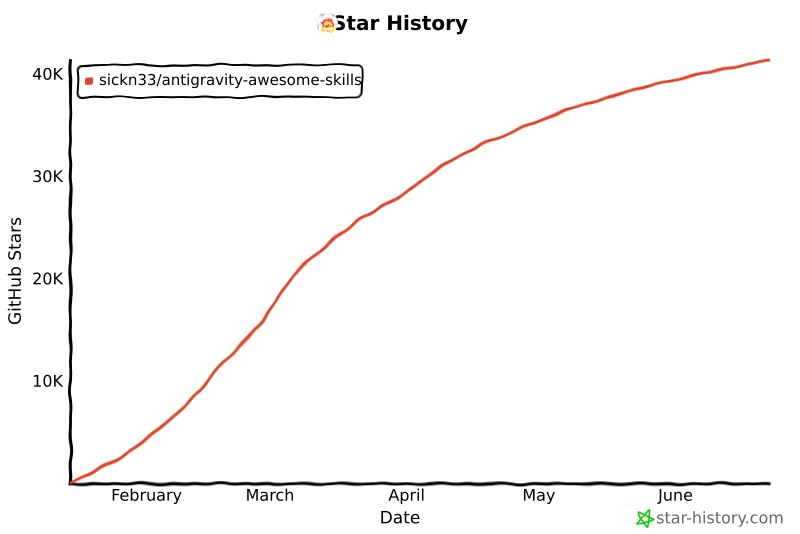
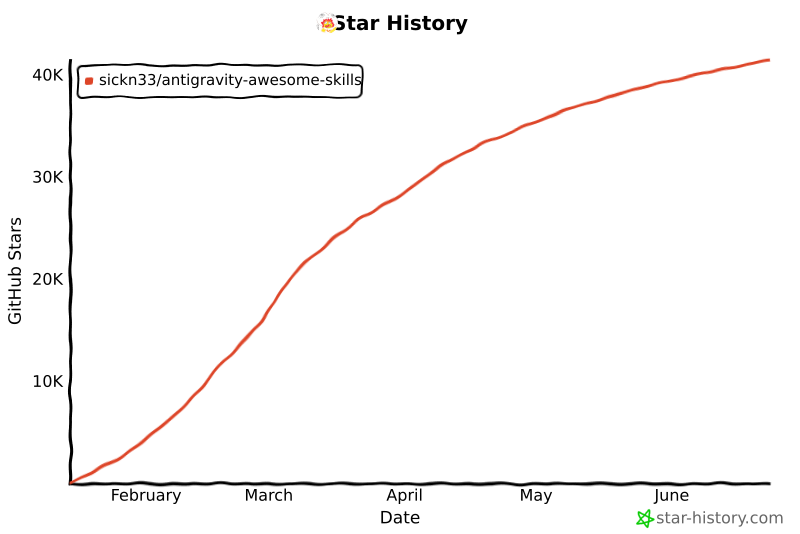
chore: update star history chart

diff --git a/README.md b/README.md
@@ -491,14 +491,14 @@ We officially thank the following contributors for their help in making this rep
 ## Star History
 
 <a href="https://www.star-history.com/#sickn33/antigravity-awesome-skills&type=date&legend=top-left">
- <img alt="Star History Chart" src="https://api.star-history.com/svg?repos=sickn33/antigravity-awesome-skills&type=date&legend=top-left&cache_bust=202606230858" />
+ <img alt="Star History Chart" src="https://api.star-history.com/svg?repos=sickn33/antigravity-awesome-skills&type=date&legend=top-left&cache_bust=202606240852" />
 </a>
 
 <a href="https://www.star-history.com/sickn33/antigravity-awesome-skills">
  <picture>
-   <source media="(prefers-color-scheme: dark)" srcset="https://api.star-history.com/chart?repos=sickn33/antigravity-awesome-skills&style=landscape1&theme=dark&cache_bust=202606230858" />
-   <source media="(prefers-color-scheme: light)" srcset="https://api.star-history.com/chart?repos=sickn33/antigravity-awesome-skills&style=landscape1&cache_bust=202606230858" />
-   <img alt="Star History Chart" src="https://api.star-history.com/chart?repos=sickn33/antigravity-awesome-skills&style=landscape1&cache_bust=202606230858" />
+   <source media="(prefers-color-scheme: dark)" srcset="https://api.star-history.com/chart?repos=sickn33/antigravity-awesome-skills&style=landscape1&theme=dark&cache_bust=202606240852" />
+   <source media="(prefers-color-scheme: light)" srcset="https://api.star-history.com/chart?repos=sickn33/antigravity-awesome-skills&style=landscape1&cache_bust=202606240852" />
+   <img alt="Star History Chart" src="https://api.star-history.com/chart?repos=sickn33/antigravity-awesome-skills&style=landscape1&cache_bust=202606240852" />
  </picture>
 </a>
 
